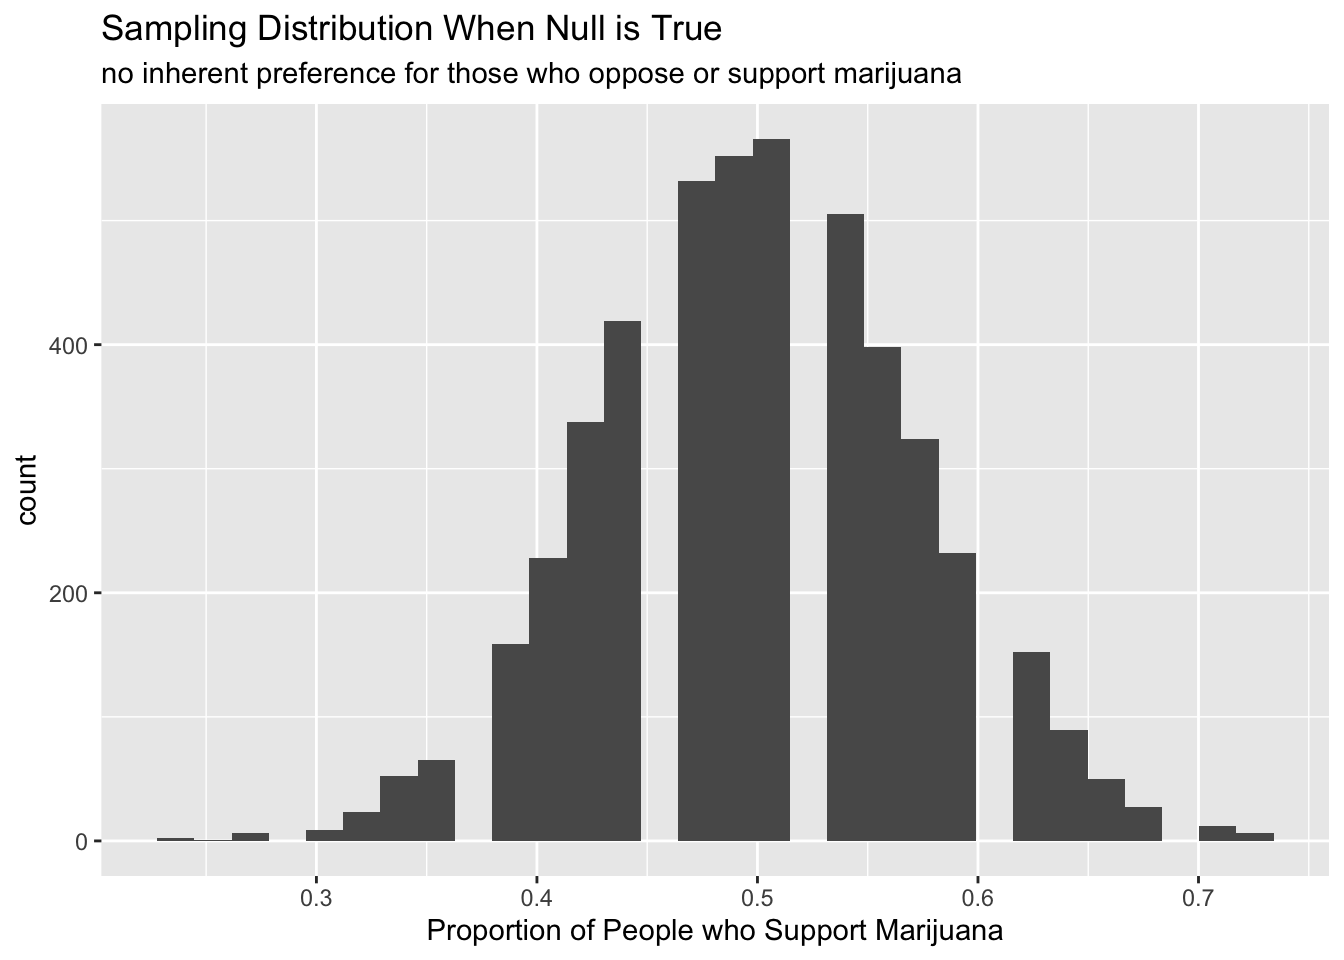
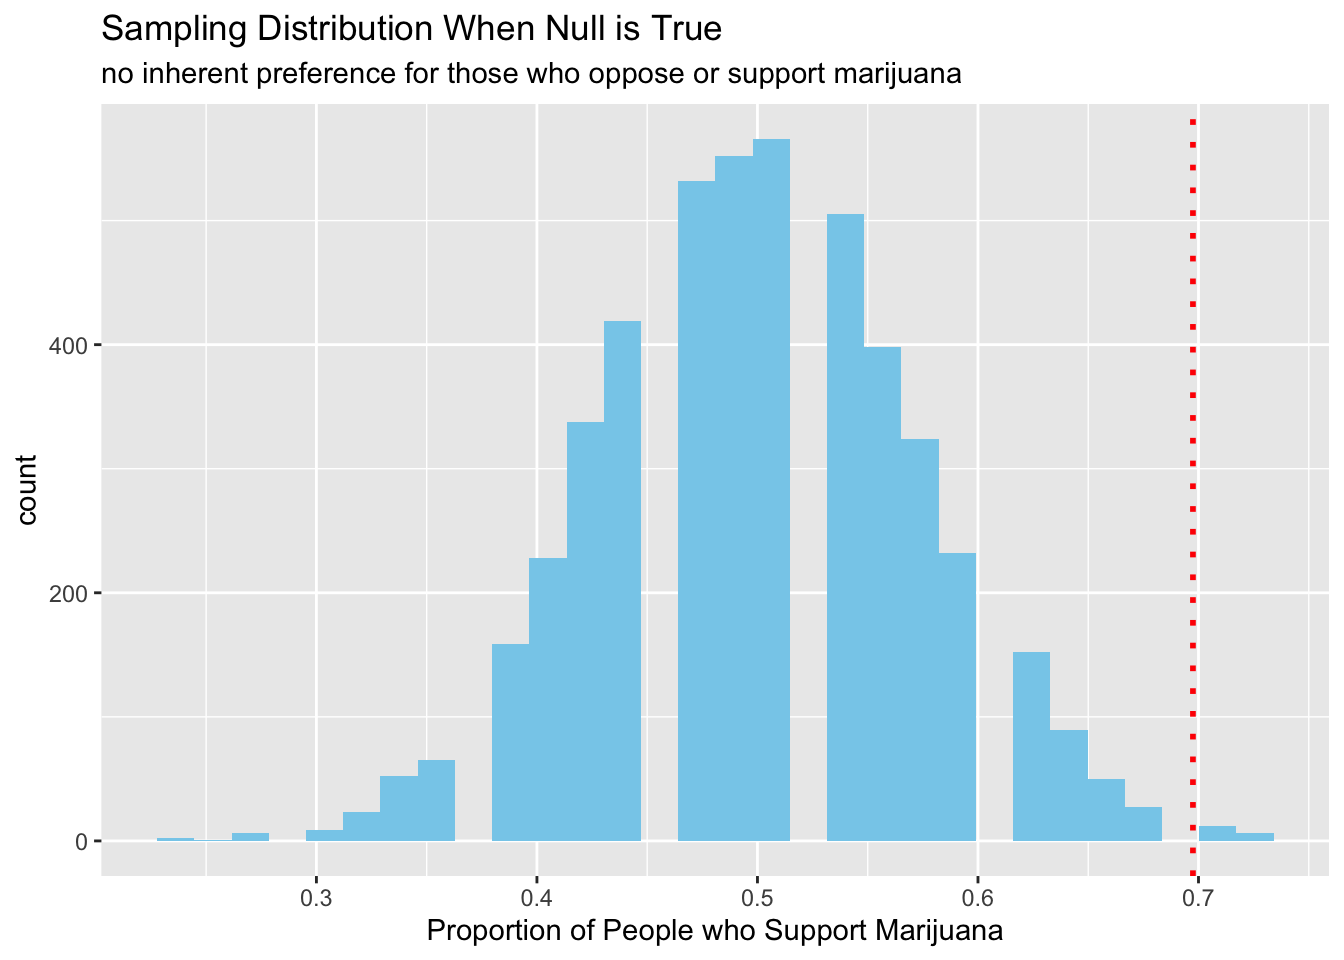
fin

Changed region(s): [[0.2188, 0.125, 0.9375, 0.875], [0.1562, 0.8438, 0.1875, 0.875]]

diff --git a/docs/ValentinesDay.html b/docs/ValentinesDay.html
@@ -186,13 +186,7 @@ pre > code.sourceCode > span > a:first-child::before { text-decoration: underlin
 <!-- sidebar -->
 <!-- margin-sidebar -->
     <div id="quarto-margin-sidebar" class="sidebar margin-sidebar">
-        <nav id="TOC" role="doc-toc" class="toc-active">
-    <h2 id="toc-title">On this page</h2>
-   
-  <ul>
-  <li><a href="#the-following-graph-is-from-the-historical-spending-dataset.-it-visualizes-the-percentage-of-people-who-celebrate-valentines-day-from-2010-2022" id="toc-the-following-graph-is-from-the-historical-spending-dataset.-it-visualizes-the-percentage-of-people-who-celebrate-valentines-day-from-2010-2022" class="nav-link active" data-scroll-target="#the-following-graph-is-from-the-historical-spending-dataset.-it-visualizes-the-percentage-of-people-who-celebrate-valentines-day-from-2010-2022">The following graph is from the historical spending dataset. It visualizes the percentage of people who celebrate Valentine’s Day from 2010-2022</a></li>
-  </ul>
-</nav>
+        
     </div>
 <!-- main -->
 <main class="content" id="quarto-document-content">
@@ -233,8 +227,8 @@ pre > code.sourceCode > span > a:first-child::before { text-decoration: underlin
 </header>
 
 
-<section id="the-following-graph-is-from-the-historical-spending-dataset.-it-visualizes-the-percentage-of-people-who-celebrate-valentines-day-from-2010-2022" class="level3">
-<h3 class="anchored" data-anchor-id="the-following-graph-is-from-the-historical-spending-dataset.-it-visualizes-the-percentage-of-people-who-celebrate-valentines-day-from-2010-2022">The following graph is from the historical spending dataset. It visualizes the percentage of people who celebrate Valentine’s Day from 2010-2022</h3>
+<section id="the-following-graph-is-from-the-historical-spending-dataset.-it-visualizes-the-percentage-of-people-who-celebrate-valentines-day-from-2010-2022" class="level4">
+<h4 class="anchored" data-anchor-id="the-following-graph-is-from-the-historical-spending-dataset.-it-visualizes-the-percentage-of-people-who-celebrate-valentines-day-from-2010-2022">The following graph is from the historical spending dataset. It visualizes the percentage of people who celebrate Valentine’s Day from 2010-2022</h4>
 <div class="cell">
 <div class="sourceCode cell-code" id="cb1"><pre class="sourceCode r code-with-copy"><code class="sourceCode r"><span id="cb1-1"><a href="#cb1-1" aria-hidden="true" tabindex="-1"></a><span class="fu">ggplot</span>(historical_spending, <span class="fu">aes</span>(<span class="at">x =</span> Year, <span class="at">y =</span> PercentCelebrating, <span class="at">fill =</span> Year)) <span class="sc">+</span> <span class="co"># Uses historical_spending for ggplot</span></span>
 <span id="cb1-2"><a href="#cb1-2" aria-hidden="true" tabindex="-1"></a>  <span class="fu">geom_line</span>() <span class="sc">+</span> <span class="co"># Defines x and y variables and groups color by year</span></span>
@@ -259,6 +253,94 @@ pre > code.sourceCode > span > a:first-child::before { text-decoration: underlin
 <p><img src="ValentinesDay_files/figure-html/unnamed-chunk-2-1.png" class="img-fluid figure-img" width="672"></p>
 </figure>
 </div>
+</div>
+</div>
+</section>
+<section id="the-next-graph-is-an-interactive-map-created-using-shiny.-it-shows-how-much-people-spend-based-on-different-purposes-gifts-dates-etc.-over-time." class="level4">
+<h4 class="anchored" data-anchor-id="the-next-graph-is-an-interactive-map-created-using-shiny.-it-shows-how-much-people-spend-based-on-different-purposes-gifts-dates-etc.-over-time.">The next graph is an interactive map created using Shiny. It shows how much people spend based on different purposes (gifts, dates, etc.) over time.</h4>
+<div class="cell">
+<div class="sourceCode cell-code" id="cb2"><pre class="sourceCode r code-with-copy"><code class="sourceCode r"><span id="cb2-1"><a href="#cb2-1" aria-hidden="true" tabindex="-1"></a><span class="fu">library</span>(shiny)</span>
+<span id="cb2-2"><a href="#cb2-2" aria-hidden="true" tabindex="-1"></a></span>
+<span id="cb2-3"><a href="#cb2-3" aria-hidden="true" tabindex="-1"></a><span class="co"># Define UI for application that draws a histogram</span></span>
+<span id="cb2-4"><a href="#cb2-4" aria-hidden="true" tabindex="-1"></a>ui <span class="ot">&lt;-</span> <span class="fu">fluidPage</span>(</span>
+<span id="cb2-5"><a href="#cb2-5" aria-hidden="true" tabindex="-1"></a></span>
+<span id="cb2-6"><a href="#cb2-6" aria-hidden="true" tabindex="-1"></a>    <span class="co"># Application title</span></span>
+<span id="cb2-7"><a href="#cb2-7" aria-hidden="true" tabindex="-1"></a>    <span class="fu">titlePanel</span>(<span class="st">"Valentine's Day Interactive Map"</span>),</span>
+<span id="cb2-8"><a href="#cb2-8" aria-hidden="true" tabindex="-1"></a></span>
+<span id="cb2-9"><a href="#cb2-9" aria-hidden="true" tabindex="-1"></a>    <span class="co"># Sidebar with a slider input for number of bins </span></span>
+<span id="cb2-10"><a href="#cb2-10" aria-hidden="true" tabindex="-1"></a>    <span class="fu">sidebarLayout</span>(</span>
+<span id="cb2-11"><a href="#cb2-11" aria-hidden="true" tabindex="-1"></a>        <span class="fu">sidebarPanel</span>(</span>
+<span id="cb2-12"><a href="#cb2-12" aria-hidden="true" tabindex="-1"></a>            <span class="fu">uiOutput</span>(<span class="st">"year_slider_ui"</span>),</span>
+<span id="cb2-13"><a href="#cb2-13" aria-hidden="true" tabindex="-1"></a>            <span class="fu">selectInput</span>(</span>
+<span id="cb2-14"><a href="#cb2-14" aria-hidden="true" tabindex="-1"></a>          <span class="at">inputId =</span> <span class="st">"y_axis_variable"</span>,</span>
+<span id="cb2-15"><a href="#cb2-15" aria-hidden="true" tabindex="-1"></a>          <span class="at">label =</span> <span class="st">"Select a Variable to Plot (Money Spent on): "</span>, </span>
+<span id="cb2-16"><a href="#cb2-16" aria-hidden="true" tabindex="-1"></a>          <span class="at">choices =</span> <span class="fu">c</span>(<span class="st">"Candy"</span>, <span class="st">"Flowers"</span>, <span class="st">"Jewelry"</span>, <span class="st">"GreetingCards"</span>, <span class="st">"EveningOut"</span>, <span class="st">"Clothing"</span>, <span class="st">"GiftCards"</span>),</span>
+<span id="cb2-17"><a href="#cb2-17" aria-hidden="true" tabindex="-1"></a>          <span class="at">selected =</span> <span class="st">"Candy"</span></span>
+<span id="cb2-18"><a href="#cb2-18" aria-hidden="true" tabindex="-1"></a>        )</span>
+<span id="cb2-19"><a href="#cb2-19" aria-hidden="true" tabindex="-1"></a>        ),</span>
+<span id="cb2-20"><a href="#cb2-20" aria-hidden="true" tabindex="-1"></a></span>
+<span id="cb2-21"><a href="#cb2-21" aria-hidden="true" tabindex="-1"></a>        <span class="co"># Show a plot of the generated distribution</span></span>
+<span id="cb2-22"><a href="#cb2-22" aria-hidden="true" tabindex="-1"></a>        <span class="fu">mainPanel</span>(</span>
+<span id="cb2-23"><a href="#cb2-23" aria-hidden="true" tabindex="-1"></a>           <span class="fu">textOutput</span>(<span class="st">"selected_years"</span>),</span>
+<span id="cb2-24"><a href="#cb2-24" aria-hidden="true" tabindex="-1"></a>           <span class="fu">tableOutput</span>(<span class="st">"filtered_data"</span>),</span>
+<span id="cb2-25"><a href="#cb2-25" aria-hidden="true" tabindex="-1"></a>           <span class="fu">plotOutput</span>(<span class="st">"valentines_plot"</span>)</span>
+<span id="cb2-26"><a href="#cb2-26" aria-hidden="true" tabindex="-1"></a>        )</span>
+<span id="cb2-27"><a href="#cb2-27" aria-hidden="true" tabindex="-1"></a>    )</span>
+<span id="cb2-28"><a href="#cb2-28" aria-hidden="true" tabindex="-1"></a>)</span>
+<span id="cb2-29"><a href="#cb2-29" aria-hidden="true" tabindex="-1"></a></span>
+<span id="cb2-30"><a href="#cb2-30" aria-hidden="true" tabindex="-1"></a><span class="co"># Define server logic required to draw a histogram</span></span>
+<span id="cb2-31"><a href="#cb2-31" aria-hidden="true" tabindex="-1"></a>server <span class="ot">&lt;-</span> <span class="cf">function</span>(input, output, session) {</span>
+<span id="cb2-32"><a href="#cb2-32" aria-hidden="true" tabindex="-1"></a>  </span>
+<span id="cb2-33"><a href="#cb2-33" aria-hidden="true" tabindex="-1"></a>  output<span class="sc">$</span>year_slider_ui <span class="ot">&lt;-</span> <span class="fu">renderUI</span>({</span>
+<span id="cb2-34"><a href="#cb2-34" aria-hidden="true" tabindex="-1"></a>    <span class="fu">req</span>(historical_spending)</span>
+<span id="cb2-35"><a href="#cb2-35" aria-hidden="true" tabindex="-1"></a>    <span class="fu">req</span>(historical_spending<span class="sc">$</span>Year)</span>
+<span id="cb2-36"><a href="#cb2-36" aria-hidden="true" tabindex="-1"></a>    </span>
+<span id="cb2-37"><a href="#cb2-37" aria-hidden="true" tabindex="-1"></a><span class="fu">sliderInput</span>(</span>
+<span id="cb2-38"><a href="#cb2-38" aria-hidden="true" tabindex="-1"></a>  <span class="st">"year_slider"</span>, </span>
+<span id="cb2-39"><a href="#cb2-39" aria-hidden="true" tabindex="-1"></a>  <span class="st">"Select Year Range:"</span>, </span>
+<span id="cb2-40"><a href="#cb2-40" aria-hidden="true" tabindex="-1"></a>  <span class="at">min =</span> <span class="fu">min</span>(historical_spending<span class="sc">$</span>Year, <span class="at">na.rm =</span> <span class="cn">TRUE</span>),</span>
+<span id="cb2-41"><a href="#cb2-41" aria-hidden="true" tabindex="-1"></a>  <span class="at">max =</span> <span class="fu">max</span>(historical_spending<span class="sc">$</span>Year, <span class="at">na.rm =</span> <span class="cn">TRUE</span>),</span>
+<span id="cb2-42"><a href="#cb2-42" aria-hidden="true" tabindex="-1"></a>  <span class="at">value =</span> <span class="fu">c</span>(<span class="fu">min</span>(historical_spending<span class="sc">$</span>Year, <span class="at">na.rm =</span> <span class="cn">TRUE</span>), <span class="fu">max</span>(historical_spending<span class="sc">$</span>Year, <span class="at">na.rm =</span> <span class="cn">TRUE</span>)),</span>
+<span id="cb2-43"><a href="#cb2-43" aria-hidden="true" tabindex="-1"></a>              <span class="at">step =</span> <span class="dv">1</span>, <span class="at">sep =</span> <span class="st">""</span>)</span>
+<span id="cb2-44"><a href="#cb2-44" aria-hidden="true" tabindex="-1"></a></span>
+<span id="cb2-45"><a href="#cb2-45" aria-hidden="true" tabindex="-1"></a> })</span>
+<span id="cb2-46"><a href="#cb2-46" aria-hidden="true" tabindex="-1"></a>  </span>
+<span id="cb2-47"><a href="#cb2-47" aria-hidden="true" tabindex="-1"></a>  filtered_data <span class="ot">&lt;-</span> <span class="fu">reactive</span>({</span>
+<span id="cb2-48"><a href="#cb2-48" aria-hidden="true" tabindex="-1"></a>    <span class="fu">req</span>(input<span class="sc">$</span>year_slider)</span>
+<span id="cb2-49"><a href="#cb2-49" aria-hidden="true" tabindex="-1"></a>    historical_spending <span class="sc">|&gt;</span> </span>
+<span id="cb2-50"><a href="#cb2-50" aria-hidden="true" tabindex="-1"></a>      <span class="fu">filter</span>(Year <span class="sc">&gt;=</span> input<span class="sc">$</span>year_slider[<span class="dv">1</span>], Year <span class="sc">&lt;=</span> input<span class="sc">$</span>year_slider[<span class="dv">2</span>])</span>
+<span id="cb2-51"><a href="#cb2-51" aria-hidden="true" tabindex="-1"></a>  })</span>
+<span id="cb2-52"><a href="#cb2-52" aria-hidden="true" tabindex="-1"></a>   output<span class="sc">$</span>selected_years <span class="ot">&lt;-</span> <span class="fu">renderText</span>({</span>
+<span id="cb2-53"><a href="#cb2-53" aria-hidden="true" tabindex="-1"></a>    <span class="fu">req</span>(input<span class="sc">$</span>year_slider)</span>
+<span id="cb2-54"><a href="#cb2-54" aria-hidden="true" tabindex="-1"></a>    <span class="fu">paste</span>(<span class="st">"Selected Year Range:"</span>, input<span class="sc">$</span>year_slider[<span class="dv">1</span>], <span class="st">"to"</span>, input<span class="sc">$</span>year_slider[<span class="dv">2</span>])</span>
+<span id="cb2-55"><a href="#cb2-55" aria-hidden="true" tabindex="-1"></a>  })</span>
+<span id="cb2-56"><a href="#cb2-56" aria-hidden="true" tabindex="-1"></a>  </span>
+<span id="cb2-57"><a href="#cb2-57" aria-hidden="true" tabindex="-1"></a>  <span class="co"># Show the filtered dataset</span></span>
+<span id="cb2-58"><a href="#cb2-58" aria-hidden="true" tabindex="-1"></a>  output<span class="sc">$</span>valentines_plot <span class="ot">&lt;-</span> <span class="fu">renderPlot</span>({</span>
+<span id="cb2-59"><a href="#cb2-59" aria-hidden="true" tabindex="-1"></a>    <span class="fu">req</span>(<span class="fu">filtered_data</span>())</span>
+<span id="cb2-60"><a href="#cb2-60" aria-hidden="true" tabindex="-1"></a>    <span class="fu">req</span>(input<span class="sc">$</span>y_axis_variable)</span>
+<span id="cb2-61"><a href="#cb2-61" aria-hidden="true" tabindex="-1"></a>    </span>
+<span id="cb2-62"><a href="#cb2-62" aria-hidden="true" tabindex="-1"></a>    <span class="fu">ggplot</span>(<span class="fu">filtered_data</span>(), <span class="fu">aes</span>(<span class="at">x =</span> Year, <span class="at">y =</span> .data[[input<span class="sc">$</span>y_axis_variable]])) <span class="sc">+</span></span>
+<span id="cb2-63"><a href="#cb2-63" aria-hidden="true" tabindex="-1"></a>      <span class="fu">geom_line</span>(<span class="at">color =</span> <span class="st">"pink"</span>) <span class="sc">+</span></span>
+<span id="cb2-64"><a href="#cb2-64" aria-hidden="true" tabindex="-1"></a>      <span class="fu">geom_point</span>(<span class="at">color =</span> <span class="st">"darkgreen"</span>) <span class="sc">+</span></span>
+<span id="cb2-65"><a href="#cb2-65" aria-hidden="true" tabindex="-1"></a>      <span class="fu">labs</span>(</span>
+<span id="cb2-66"><a href="#cb2-66" aria-hidden="true" tabindex="-1"></a>        <span class="at">title =</span> <span class="fu">paste</span>(<span class="st">"Year vs Price of"</span>, input<span class="sc">$</span>y_axis_variable),</span>
+<span id="cb2-67"><a href="#cb2-67" aria-hidden="true" tabindex="-1"></a>        <span class="at">x =</span> <span class="st">"Year"</span>,</span>
+<span id="cb2-68"><a href="#cb2-68" aria-hidden="true" tabindex="-1"></a>        <span class="at">y =</span> input<span class="sc">$</span>y_axis_variable</span>
+<span id="cb2-69"><a href="#cb2-69" aria-hidden="true" tabindex="-1"></a>      ) <span class="sc">+</span></span>
+<span id="cb2-70"><a href="#cb2-70" aria-hidden="true" tabindex="-1"></a>      <span class="fu">theme_minimal</span>()</span>
+<span id="cb2-71"><a href="#cb2-71" aria-hidden="true" tabindex="-1"></a>    </span>
+<span id="cb2-72"><a href="#cb2-72" aria-hidden="true" tabindex="-1"></a>})</span>
+<span id="cb2-73"><a href="#cb2-73" aria-hidden="true" tabindex="-1"></a>  </span>
+<span id="cb2-74"><a href="#cb2-74" aria-hidden="true" tabindex="-1"></a>  output<span class="sc">$</span>filtered_data <span class="ot">&lt;-</span> <span class="fu">renderTable</span>({</span>
+<span id="cb2-75"><a href="#cb2-75" aria-hidden="true" tabindex="-1"></a>    <span class="fu">filtered_data</span>()</span>
+<span id="cb2-76"><a href="#cb2-76" aria-hidden="true" tabindex="-1"></a>  })</span>
+<span id="cb2-77"><a href="#cb2-77" aria-hidden="true" tabindex="-1"></a>  </span>
+<span id="cb2-78"><a href="#cb2-78" aria-hidden="true" tabindex="-1"></a>}</span>
+<span id="cb2-79"><a href="#cb2-79" aria-hidden="true" tabindex="-1"></a><span class="co"># Run the application </span></span>
+<span id="cb2-80"><a href="#cb2-80" aria-hidden="true" tabindex="-1"></a><span class="fu">shinyApp</span>(<span class="at">ui =</span> ui, <span class="at">server =</span> server)</span></code><button title="Copy to Clipboard" class="code-copy-button"><i class="bi"></i></button></pre></div>
+<div class="cell-output-display">
+<p></p><div style="width: 100% ; height: 400px ; text-align: center; box-sizing: border-box; -moz-box-sizing: border-box; -webkit-box-sizing: border-box;" class="muted well">Shiny applications not supported in static R Markdown documents</div><p></p>
 </div>
 </div>
 <p>TidyTuesday Dataset</p>

diff --git a/docs/SummerMovies.html b/docs/SummerMovies.html
@@ -186,13 +186,7 @@ pre > code.sourceCode > span > a:first-child::before { text-decoration: underlin
 <!-- sidebar -->
 <!-- margin-sidebar -->
     <div id="quarto-margin-sidebar" class="sidebar margin-sidebar">
-        <nav id="TOC" role="doc-toc" class="toc-active">
-    <h2 id="toc-title">On this page</h2>
-   
-  <ul>
-  <li><a href="#the-following-graph-displays-data-of-summer-movies-comparing-the-relationship-between-movie-release-year-and-rating.-according-to-this-graph-throughout-the-years-there-are-continuously-more-movies-and-the-ratings-for-each-movie-become-more-varied." id="toc-the-following-graph-displays-data-of-summer-movies-comparing-the-relationship-between-movie-release-year-and-rating.-according-to-this-graph-throughout-the-years-there-are-continuously-more-movies-and-the-ratings-for-each-movie-become-more-varied." class="nav-link active" data-scroll-target="#the-following-graph-displays-data-of-summer-movies-comparing-the-relationship-between-movie-release-year-and-rating.-according-to-this-graph-throughout-the-years-there-are-continuously-more-movies-and-the-ratings-for-each-movie-become-more-varied.">The following graph displays data of summer movies comparing the relationship between movie release year and rating. According to this graph, throughout the years there are continuously more movies, and the ratings for each movie become more varied.</a></li>
-  </ul>
-</nav>
+        
     </div>
 <!-- main -->
 <main class="content" id="quarto-document-content">
@@ -233,8 +227,8 @@ pre > code.sourceCode > span > a:first-child::before { text-decoration: underlin
 </header>
 
 
-<section id="the-following-graph-displays-data-of-summer-movies-comparing-the-relationship-between-movie-release-year-and-rating.-according-to-this-graph-throughout-the-years-there-are-continuously-more-movies-and-the-ratings-for-each-movie-become-more-varied." class="level3">
-<h3 class="anchored" data-anchor-id="the-following-graph-displays-data-of-summer-movies-comparing-the-relationship-between-movie-release-year-and-rating.-according-to-this-graph-throughout-the-years-there-are-continuously-more-movies-and-the-ratings-for-each-movie-become-more-varied.">The following graph displays data of summer movies comparing the relationship between movie release year and rating. According to this graph, throughout the years there are continuously more movies, and the ratings for each movie become more varied.</h3>
+<section id="the-following-graph-displays-data-of-summer-movies-comparing-the-relationship-between-movie-release-year-and-rating.-according-to-this-graph-throughout-the-years-there-are-continuously-more-movies-and-the-ratings-for-each-movie-become-more-varied." class="level4">
+<h4 class="anchored" data-anchor-id="the-following-graph-displays-data-of-summer-movies-comparing-the-relationship-between-movie-release-year-and-rating.-according-to-this-graph-throughout-the-years-there-are-continuously-more-movies-and-the-ratings-for-each-movie-become-more-varied.">The following graph displays data of summer movies comparing the relationship between movie release year and rating. According to this graph, throughout the years there are continuously more movies, and the ratings for each movie become more varied.</h4>
 <div class="cell">
 <div class="sourceCode cell-code" id="cb1"><pre class="sourceCode r code-with-copy"><code class="sourceCode r"><span id="cb1-1"><a href="#cb1-1" aria-hidden="true" tabindex="-1"></a><span class="fu">ggplot</span>(<span class="at">data =</span> summer_movies) <span class="sc">+</span> <span class="co"># Uses summer_movies for ggplot</span></span>
 <span id="cb1-2"><a href="#cb1-2" aria-hidden="true" tabindex="-1"></a>  <span class="fu">geom_point</span>(<span class="fu">aes</span>(<span class="at">x =</span> year, <span class="at">y =</span> average_rating, <span class="at">color =</span> year)) <span class="sc">+</span> <span class="co">#Defines x and y variables and groups the colors by year</span></span>

diff --git a/docs/MarijuanaSimulation.html b/docs/MarijuanaSimulation.html
@@ -267,12 +267,13 @@ pre > code.sourceCode > span > a:first-child::before { text-decoration: underlin
 <span id="cb2-15"><a href="#cb2-15" aria-hidden="true" tabindex="-1"></a>support_random <span class="sc">|&gt;</span></span>
 <span id="cb2-16"><a href="#cb2-16" aria-hidden="true" tabindex="-1"></a>  <span class="fu">data.frame</span>() <span class="sc">|&gt;</span> </span>
 <span id="cb2-17"><a href="#cb2-17" aria-hidden="true" tabindex="-1"></a>  <span class="fu">ggplot</span>(<span class="fu">aes</span>(<span class="at">x =</span> support_random)) <span class="sc">+</span></span>
-<span id="cb2-18"><a href="#cb2-18" aria-hidden="true" tabindex="-1"></a>  <span class="fu">geom_histogram</span>() <span class="sc">+</span></span>
-<span id="cb2-19"><a href="#cb2-19" aria-hidden="true" tabindex="-1"></a>  <span class="fu">labs</span>(</span>
-<span id="cb2-20"><a href="#cb2-20" aria-hidden="true" tabindex="-1"></a>    <span class="at">title =</span> <span class="st">"Sampling Distribution When Null is True"</span>,</span>
-<span id="cb2-21"><a href="#cb2-21" aria-hidden="true" tabindex="-1"></a>    <span class="at">subtitle =</span> <span class="st">"no inherent preference for those who oppose or support marijuana"</span>,</span>
-<span id="cb2-22"><a href="#cb2-22" aria-hidden="true" tabindex="-1"></a>    <span class="at">x =</span> <span class="st">"Proportion of People who Support Marijuana"</span></span>
-<span id="cb2-23"><a href="#cb2-23" aria-hidden="true" tabindex="-1"></a>  )</span></code><button title="Copy to Clipboard" class="code-copy-button"><i class="bi"></i></button></pre></div>
+<span id="cb2-18"><a href="#cb2-18" aria-hidden="true" tabindex="-1"></a>  <span class="fu">geom_histogram</span>(<span class="at">fill =</span> <span class="st">"skyblue"</span>) <span class="sc">+</span></span>
+<span id="cb2-19"><a href="#cb2-19" aria-hidden="true" tabindex="-1"></a>  <span class="fu">geom_vline</span>(<span class="at">xintercept =</span> support_obs, <span class="at">color =</span> <span class="st">"red"</span>, <span class="at">linetype =</span> <span class="st">"dotted"</span>, <span class="at">size =</span> <span class="dv">1</span>) <span class="sc">+</span></span>
+<span id="cb2-20"><a href="#cb2-20" aria-hidden="true" tabindex="-1"></a>  <span class="fu">labs</span>(</span>
+<span id="cb2-21"><a href="#cb2-21" aria-hidden="true" tabindex="-1"></a>    <span class="at">title =</span> <span class="st">"Sampling Distribution When Null is True"</span>,</span>
+<span id="cb2-22"><a href="#cb2-22" aria-hidden="true" tabindex="-1"></a>    <span class="at">subtitle =</span> <span class="st">"no inherent preference for those who oppose or support marijuana"</span>,</span>
+<span id="cb2-23"><a href="#cb2-23" aria-hidden="true" tabindex="-1"></a>    <span class="at">x =</span> <span class="st">"Proportion of People who Support Marijuana"</span></span>
+<span id="cb2-24"><a href="#cb2-24" aria-hidden="true" tabindex="-1"></a>  )</span></code><button title="Copy to Clipboard" class="code-copy-button"><i class="bi"></i></button></pre></div>
 <div class="cell-output-display">
 <div>
 <figure class="figure">
